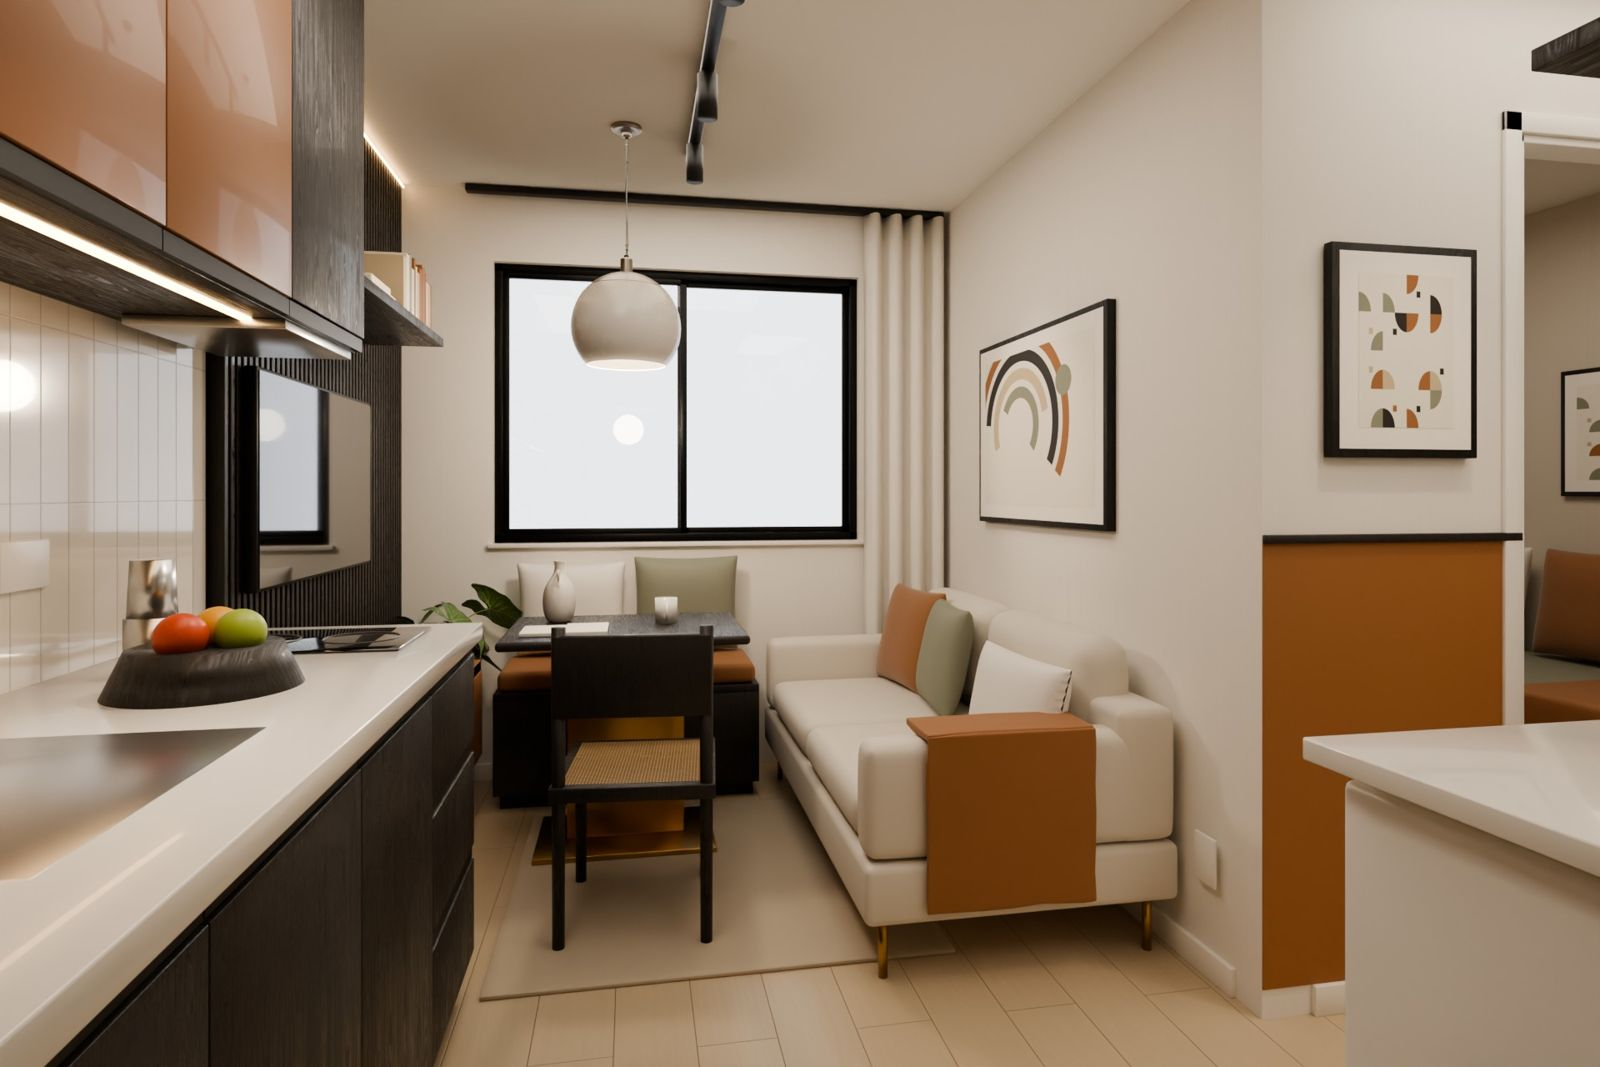
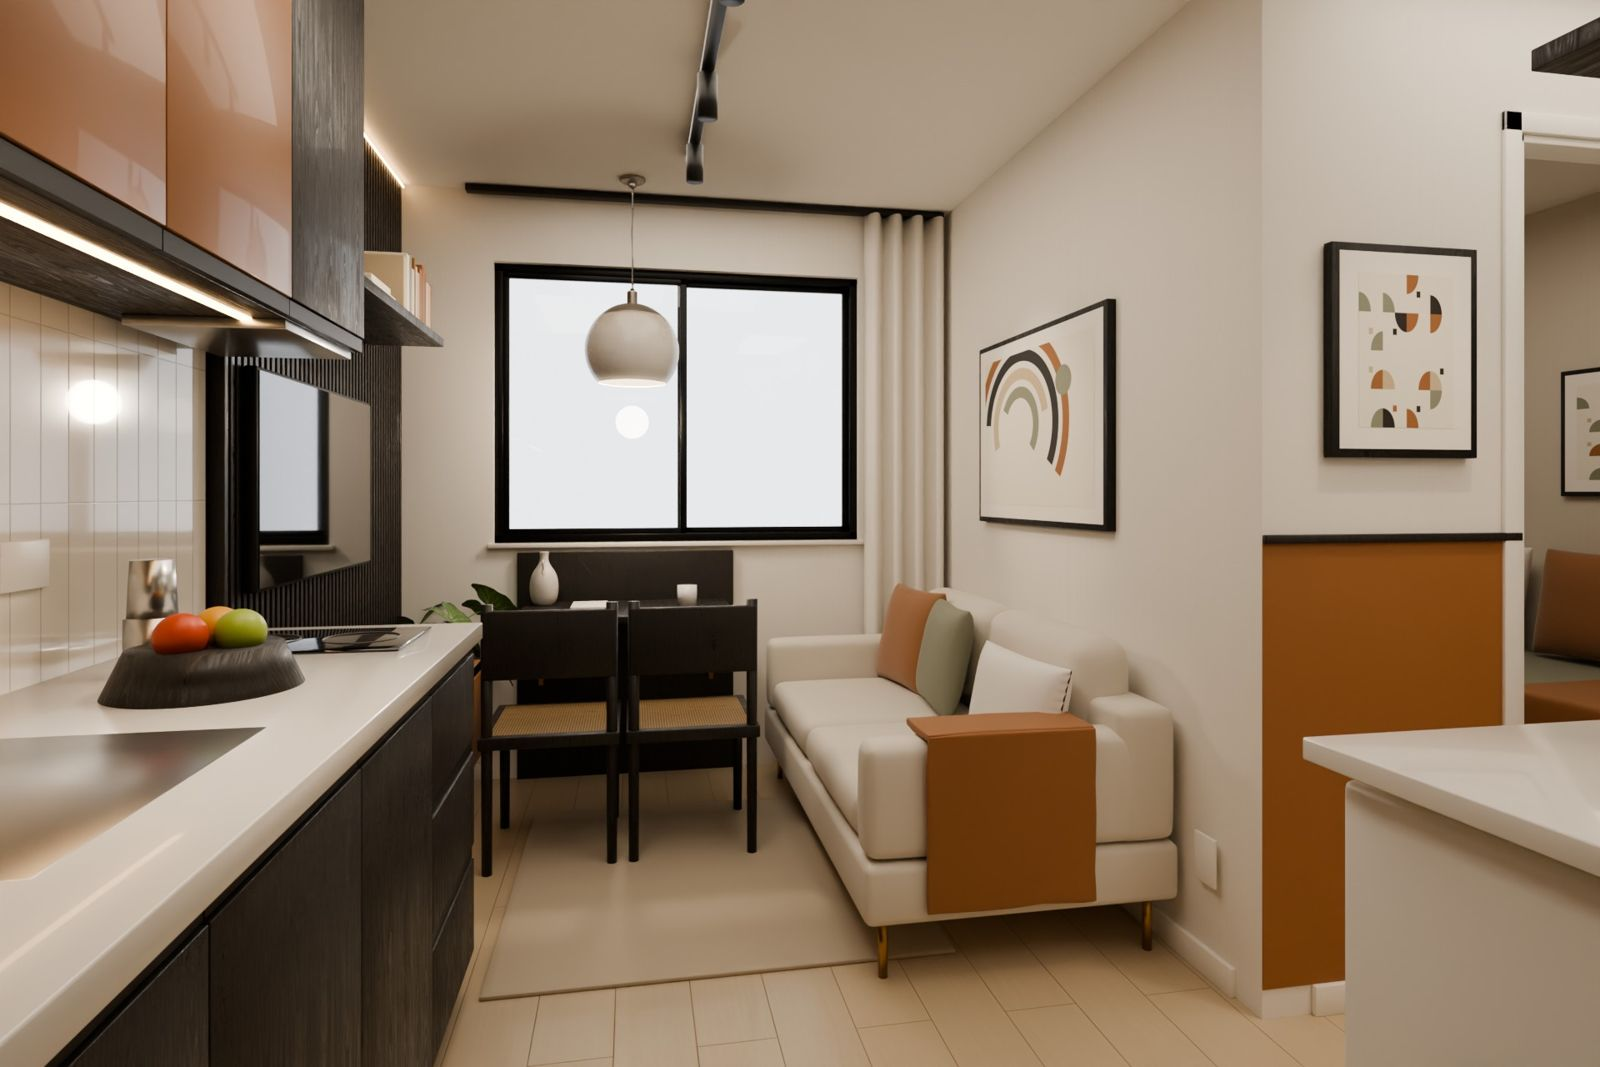
Site: B DONE

diff --git a/web/index.html b/web/index.html
@@ -312,6 +312,8 @@ footer { padding-block: 32px 48px; color: var(--muted); font-size: 13px; border-
     <div class="viewer" id="viewer"><div class="status" id="status">Carregando modelo…</div><span class="hint label">cores sólidas · escala 1:1 em metros</span><div class="navchips" id="navchips" hidden></div><div class="vdin" id="vdin"></div><span class="hint label walk" id="walkhint" hidden>clique nas setas do piso para ir a outro cômodo · arraste para olhar · W A S D para andar</span></div>
   </section>
 
+
+
   <section class="block" id="catalogo">
     <header><h2>Móveis e eletrodomésticos</h2><span class="cota">medidas em centímetros</span></header>
     <p class="lead">Cada peça do projeto com largura, profundidade e altura tiradas do próprio modelo. Largura é a medida ao longo da parede onde a peça encosta. Clique na imagem para girar a peça em 3D com as cotas. Peças mostradas na paleta Terra Paulista.</p>
@@ -446,6 +448,14 @@ function setPalette(p) {
 }
 /* ---------- viewer 3D ---------- */
 const box = document.getElementById("viewer"), status = document.getElementById("status");
+let hemi, sun, fill;
+// luz pré-calculada no Cycles chega como occlusionTexture (aoMap): ela passa a ser a única fonte, sobre uma luz ambiente branca
+const BAKED = { ambient: 1.25, exposure: 1.0 };
+function bakedLighting(on) {
+  hemi.color.set(on ? 0xffffff : 0xfffaf2); hemi.groundColor.set(on ? 0xffffff : 0x6f675e);
+  hemi.intensity = on ? BAKED.ambient : 0.62; sun.visible = fill.visible = !on;
+  renderer.toneMappingExposure = on ? BAKED.exposure : 1.0;
+}
 let renderer, scene, camera, controls, model, showCeiling = false, walking = false, fly = null;
 const keys = new Set(), clock = new THREE.Clock(), walkhint = document.getElementById("walkhint");
 // olho a 1,55 m; coordenadas do modelo: x, altura, y da planta
@@ -483,9 +493,9 @@ function initViewer() {
   box.prepend(renderer.domElement);
   scene = new THREE.Scene();
   camera = new THREE.PerspectiveCamera(38, 16 / 9, 0.05, 200);
-  scene.add(new THREE.HemisphereLight(0xfffaf2, 0x6f675e, 0.62));
-  const sun = new THREE.DirectionalLight(0xfff1e0, 0.85); sun.position.set(-6, 10, 4); scene.add(sun);
-  const fill = new THREE.DirectionalLight(0xdfe8ff, 0.28); fill.position.set(8, 6, 10); scene.add(fill);
+  hemi = new THREE.HemisphereLight(0xfffaf2, 0x6f675e, 0.62); scene.add(hemi);
+  sun = new THREE.DirectionalLight(0xfff1e0, 0.85); sun.position.set(-6, 10, 4); scene.add(sun);
+  fill = new THREE.DirectionalLight(0xdfe8ff, 0.28); fill.position.set(8, 6, 10); scene.add(fill);
   controls = new THREE.OrbitControls(camera, renderer.domElement);
   controls.enableDamping = true; controls.maxPolarAngle = Math.PI * 0.49;
   controls.minDistance = 1.5; controls.maxDistance = 25;
@@ -660,6 +670,7 @@ function fetchGLTF(url) {
     delete json.buffers[0].uri;
     new THREE.GLTFLoader().parse(toGLB(json, bin), "", g => {
       g.scene.traverse(o => [].concat(o.material || []).forEach(m => {
+        if (m.aoMap) { m.aoMapIntensity = 1; g.baked = true; }
         if (/^Vidro/.test(m.name)) Object.assign(m, { transparent: true, opacity: m.name === "Vidro" ? 0.12 : 0.45, metalness: 0, roughness: 0.05, depthWrite: false });
       }));
       ok(g);
@@ -676,6 +687,7 @@ function loadModel(p) {
     if (current !== p) return;
     if (model) scene.remove(model);
     model = g.scene; scene.add(model); applyCeiling(); status.hidden = true;
+    bakedLighting(!!g.baked);
   }).catch(fail);
   loadDining(p);
 }

diff --git a/site/viewer.js b/site/viewer.js
@@ -1,5 +1,13 @@
 /* ---------- viewer 3D ---------- */
 const box = document.getElementById("viewer"), status = document.getElementById("status");
+let hemi, sun, fill;
+// luz pré-calculada no Cycles chega como occlusionTexture (aoMap): ela passa a ser a única fonte, sobre uma luz ambiente branca
+const BAKED = { ambient: 1.25, exposure: 1.0 };
+function bakedLighting(on) {
+  hemi.color.set(on ? 0xffffff : 0xfffaf2); hemi.groundColor.set(on ? 0xffffff : 0x6f675e);
+  hemi.intensity = on ? BAKED.ambient : 0.62; sun.visible = fill.visible = !on;
+  renderer.toneMappingExposure = on ? BAKED.exposure : 1.0;
+}
 let renderer, scene, camera, controls, model, showCeiling = false, walking = false, fly = null;
 const keys = new Set(), clock = new THREE.Clock(), walkhint = document.getElementById("walkhint");
 // olho a 1,55 m; coordenadas do modelo: x, altura, y da planta
@@ -37,9 +45,9 @@ function initViewer() {
   box.prepend(renderer.domElement);
   scene = new THREE.Scene();
   camera = new THREE.PerspectiveCamera(38, 16 / 9, 0.05, 200);
-  scene.add(new THREE.HemisphereLight(0xfffaf2, 0x6f675e, 0.62));
-  const sun = new THREE.DirectionalLight(0xfff1e0, 0.85); sun.position.set(-6, 10, 4); scene.add(sun);
-  const fill = new THREE.DirectionalLight(0xdfe8ff, 0.28); fill.position.set(8, 6, 10); scene.add(fill);
+  hemi = new THREE.HemisphereLight(0xfffaf2, 0x6f675e, 0.62); scene.add(hemi);
+  sun = new THREE.DirectionalLight(0xfff1e0, 0.85); sun.position.set(-6, 10, 4); scene.add(sun);
+  fill = new THREE.DirectionalLight(0xdfe8ff, 0.28); fill.position.set(8, 6, 10); scene.add(fill);
   controls = new THREE.OrbitControls(camera, renderer.domElement);
   controls.enableDamping = true; controls.maxPolarAngle = Math.PI * 0.49;
   controls.minDistance = 1.5; controls.maxDistance = 25;
@@ -214,6 +222,7 @@ function fetchGLTF(url) {
     delete json.buffers[0].uri;
     new THREE.GLTFLoader().parse(toGLB(json, bin), "", g => {
       g.scene.traverse(o => [].concat(o.material || []).forEach(m => {
+        if (m.aoMap) { m.aoMapIntensity = 1; g.baked = true; }
         if (/^Vidro/.test(m.name)) Object.assign(m, { transparent: true, opacity: m.name === "Vidro" ? 0.12 : 0.45, metalness: 0, roughness: 0.05, depthWrite: false });
       }));
       ok(g);
@@ -230,6 +239,7 @@ function loadModel(p) {
     if (current !== p) return;
     if (model) scene.remove(model);
     model = g.scene; scene.add(model); applyCeiling(); status.hidden = true;
+    bakedLighting(!!g.baked);
   }).catch(fail);
   loadDining(p);
 }

diff --git a/site/index2.html b/site/index2.html
@@ -312,6 +312,15 @@ footer { padding-block: 32px 48px; color: var(--muted); font-size: 13px; border-
     <div class="viewer" id="viewer"><div class="status" id="status">Carregando modelo…</div><span class="hint label">cores sólidas · escala 1:1 em metros</span><div class="navchips" id="navchips" hidden></div><div class="vdin" id="vdin"></div><span class="hint label walk" id="walkhint" hidden>clique nas setas do piso para ir a outro cômodo · arraste para olhar · W A S D para andar</span></div>
   </section>
 
+<!--VIDEO-->
+  <section class="block" id="video">
+    <header><h2>Passeio em vídeo</h2><span class="cota">24 s · 1280 × 720 · paleta Terra, jantar B</span></header>
+    <p class="lead">Um plano contínuo na altura dos olhos: entra pela porta, passa pela sala e pela cozinha, segue pelo corredor e termina no Dormitório 1. Feito para servir de base em ferramentas de vídeo com IA (como o Runway) que deixam a imagem fotorrealista.</p>
+    <video controls playsinline preload="metadata" poster="img2/terra_sala__rebativel.jpg" src="video/ares_ipiranga_tour_terra.mp4" style="width:100%;height:auto;display:block;background:var(--sheet)"></video>
+    <p style="margin-top:10px"><a href="video/ares_ipiranga_tour_terra.mp4" download>Baixar o vídeo (MP4)</a></p>
+  </section>
+<!--/VIDEO-->
+
   <section class="block" id="catalogo">
     <header><h2>Móveis e eletrodomésticos</h2><span class="cota">medidas em centímetros</span></header>
     <p class="lead">Cada peça do projeto com largura, profundidade e altura tiradas do próprio modelo. Largura é a medida ao longo da parede onde a peça encosta. Clique na imagem para girar a peça em 3D com as cotas. Peças mostradas na paleta Terra Paulista.</p>

diff --git a/light_glb.py b/light_glb.py
@@ -27,6 +27,11 @@ OUT = opt("--out", os.path.join(ROOT, "modelo2", PAL, f"ares_ipiranga_final01_{P
 PART = opt("--part", "all")          # all | base (sem o jantar) | dining (só o jantar)
 VARIANT = opt("--variant")           # opção de jantar do .blend, para o catálogo
 CAT_OUT = opt("--catalog-out", os.path.join(ROOT, "catalog.json"))
+LIGHTMAP = "--lightmap" in p          # pré-calcula a luz (Cycles) num atlas que vai como occlusionTexture
+LM_SIZE = int(opt("--lm-size", "2048"))
+LM_SAMPLES = int(opt("--lm-samples", "256"))
+LM_DEVICE = opt("--lm-device", "GPU")
+LM_FROM = opt("--lm-from")             # reaproveita a luz já calculada (.npy) de outra paleta: mesma geometria, mesmos UVs
 BAKE_DIR = os.path.join(ROOT, "web_tex", PAL)
 os.makedirs(BAKE_DIR, exist_ok=True)
 
@@ -47,12 +52,20 @@ for n in ["Ceu_externo", "Exterior"]:
     if o:
         bpy.data.objects.remove(o)
 for o in list(bpy.data.objects):
-    if o.type in ("LIGHT", "CAMERA"):
+    # com lightmap as luzes ficam até o bake
+    if o.type == "CAMERA" or (o.type == "LIGHT" and not LIGHTMAP):
         bpy.data.objects.remove(o)
-# o jantar da sala sai em arquivo próprio para o visualizador trocar as opções
+
+
+def is_dining(o):
+    return "dining" in o or (o.parent is not None and "dining" in o.parent)
+
+
+# o jantar da sala sai em arquivo próprio para o visualizador trocar as opções; no bake do jantar
+# o resto do apartamento fica na cena até o fim, para iluminar e sombrear as peças
 for o in list(bpy.data.objects):
-    is_d = "dining" in o or (o.parent is not None and "dining" in o.parent)
-    if (PART == "base" and is_d) or (PART == "dining" and not is_d and o.type in ("MESH", "EMPTY")):
+    d = is_dining(o)
+    if (PART == "base" and d) or (PART == "dining" and not LIGHTMAP and not d and o.type in ("MESH", "EMPTY")):
         bpy.data.objects.remove(o)
 
 
@@ -292,6 +305,147 @@ for o in bpy.data.objects:
             o.material_slots[i].material = webmats[nme]
 
 
+# ------------------------------------------------------------------ lightmap
+def bake_lightmap():
+    import numpy as np
+    from PIL import Image, ImageFilter
+    targets = [o for o in bpy.data.objects if o.type == "MESH" and o.data.polygons
+               and (PART != "dining" or is_dining(o))]
+    for o in targets:
+        if o.data.users > 1:
+            o.data = o.data.copy()
+        me = o.data
+        # malhas fechadas com faces para dentro (almofadas, frutas) assariam preto
+        bm = bmesh.new()
+        bm.from_mesh(me)
+        if bm.edges and all(e.is_manifold for e in bm.edges):
+            bmesh.ops.recalc_face_normals(bm, faces=bm.faces)
+            bm.to_mesh(me)
+        bm.free()
+        # TEXCOORD_0 = textura (vazio quando o material é cor sólida), TEXCOORD_1 = lightmap
+        if not me.uv_layers:
+            me.uv_layers.new(name="web")
+        while len(me.uv_layers) > 1:
+            me.uv_layers.remove(me.uv_layers[-1])
+        lm = me.uv_layers.new(name="lm")
+        me.uv_layers.active = lm
+    for o in bpy.context.view_layer.objects:
+        o.select_set(o in targets)
+    bpy.context.view_layer.objects.active = targets[0]
+    bpy.ops.object.mode_set(mode="EDIT")
+    bpy.ops.mesh.select_all(action="SELECT")
+    bpy.ops.uv.smart_project(angle_limit=math.radians(66), island_margin=0.002, correct_aspect=True,
+                             scale_to_bounds=False)
+    bpy.ops.uv.pack_islands(margin=0.003, rotate=True)
+    bpy.ops.object.mode_set(mode="OBJECT")
+    # impressão digital do layout UV: tem de bater entre paletas para reaproveitar a luz
+    import hashlib
+    hsh = hashlib.md5()
+    for o in sorted(targets, key=lambda o: o.name):
+        uv = o.data.uv_layers["lm"].data
+        arr = [0.0] * (len(uv) * 2)
+        uv.foreach_get("uv", arr)
+        hsh.update(o.name.encode()); hsh.update(bytes(str([round(x, 4) for x in arr[:64]]), "ascii"))
+    print("UVHASH", hsh.hexdigest())
+
+    import numpy as np
+    stem = f"lightmap_{PART}_{os.path.splitext(os.path.basename(OUT))[0]}"
+    if LM_FROM:
+        return tone_lightmap(np.load(LM_FROM).astype(np.float32), stem)
+    img = bpy.data.images.new("lightmap", LM_SIZE, LM_SIZE, float_buffer=True)
+    added = []
+    for m in {s.material for o in targets for s in o.material_slots if s.material}:
+        n = m.node_tree.nodes.new("ShaderNodeTexImage")
+        n.image = img
+        m.node_tree.nodes.active = n
+        added.append((m, n))
+    sc.render.engine = "CYCLES"
+    if LM_DEVICE == "GPU":
+        prefs = bpy.context.preferences.addons["cycles"].preferences
+        prefs.compute_device_type = "METAL"
+        prefs.get_devices()
+        for d in prefs.devices:
+            d.use = True
+    sc.cycles.device = LM_DEVICE
+    sc.cycles.samples = LM_SAMPLES
+    sc.cycles.use_denoising = False
+    sc.render.bake.use_pass_direct = True
+    sc.render.bake.use_pass_indirect = True
+    sc.render.bake.use_pass_color = False
+    sc.render.bake.margin = 6
+    for o in bpy.context.view_layer.objects:
+        o.select_set(o in targets)
+    bpy.ops.object.bake(type="DIFFUSE", pass_filter={"DIRECT", "INDIRECT"}, margin=6, use_clear=True)
+    for m, n in added:
+        m.node_tree.nodes.remove(n)
+
+    a = np.array(img.pixels[:], dtype=np.float32).reshape(LM_SIZE, LM_SIZE, 4)[::-1, :, :3]
+    lum = a @ np.array([0.2126, 0.7152, 0.0722], dtype=np.float32)
+    np.save(os.path.join(BAKE_DIR, stem + ".npy"), lum.astype(np.float16))
+    return tone_lightmap(lum, stem)
+
+
+def tone_lightmap(lum, stem):
+    """Luz (irradiância) -> luminância normalizada em 8 bits; o visualizador multiplica pela luz ambiente."""
+    import numpy as np
+    from PIL import Image, ImageFilter
+    used = lum[lum > 1e-4]
+    ref = float(np.percentile(used, 98)) if used.size else 1.0
+    v = np.clip(lum / ref, 0, 1) ** (1 / 1.6)       # curva suave: mais níveis nas sombras
+    im = Image.fromarray((v * 255).astype(np.uint8), "L").filter(ImageFilter.GaussianBlur(1.0))
+    path = os.path.join(BAKE_DIR, stem + ".jpg")
+    im.convert("RGB").save(path, quality=88)
+    print("LIGHTMAP", path, "ref", round(ref, 3))
+    return path, ref
+
+
+def add_occlusion(glb, jpg):
+    """Embute o atlas como occlusionTexture (texCoord 1) em todos os materiais do GLB."""
+    import struct
+    b = open(glb, "rb").read()
+    off, js, bn = 12, None, b""
+    while off < len(b):
+        ln, typ = struct.unpack("<I4s", b[off:off + 8])
+        if typ == b"JSON":
+            js = json.loads(b[off + 8:off + 8 + ln])
+        elif typ == b"BIN\x00":
+            bn = b[off + 8:off + 8 + ln]
+        off += 8 + ln
+    data = open(jpg, "rb").read()
+    pad = (4 - len(bn) % 4) % 4
+    bn = bn + b"\x00" * pad
+    js.setdefault("bufferViews", []).append({"buffer": 0, "byteOffset": len(bn), "byteLength": len(data)})
+    bn = bn + data
+    bn += b"\x00" * ((4 - len(bn) % 4) % 4)
+    js["buffers"][0]["byteLength"] = len(bn)
+    js.setdefault("images", []).append({"bufferView": len(js["bufferViews"]) - 1, "mimeType": "image/jpeg", "name": "lightmap"})
+    js.setdefault("samplers", []).append({"magFilter": 9729, "minFilter": 9987, "wrapS": 33071, "wrapT": 33071})
+    js.setdefault("textures", []).append({"source": len(js["images"]) - 1, "sampler": len(js["samplers"]) - 1})
+    t = len(js["textures"]) - 1
+    has_uv1 = set()
+    for mesh in js.get("meshes", []):
+        for prim in mesh["primitives"]:
+            if "TEXCOORD_1" in prim["attributes"] and "material" in prim:
+                has_uv1.add(prim["material"])
+    for i, m in enumerate(js.get("materials", [])):
+        if i in has_uv1:
+            m["occlusionTexture"] = {"index": t, "texCoord": 1}
+    jb = json.dumps(js, separators=(",", ":")).encode()
+    jb += b" " * ((4 - len(jb) % 4) % 4)
+    out = struct.pack("<III", 0x46546C67, 2, 12 + 8 + len(jb) + 8 + len(bn))
+    out += struct.pack("<I4s", len(jb), b"JSON") + jb + struct.pack("<I4s", len(bn), b"BIN\x00") + bn
+    open(glb, "wb").write(out)
+    print("OCCLUSION", len(has_uv1), "materiais")
+
+
+lm_path = None
+if LIGHTMAP:
+    lm_path, lm_ref = bake_lightmap()
+    for o in list(bpy.data.objects):
+        if o.type == "LIGHT" or (PART == "dining" and o.type in ("MESH", "EMPTY") and not is_dining(o)):
+            bpy.data.objects.remove(o)
+
+
 def export(path, selection=False):
     bpy.ops.export_scene.gltf(filepath=path, export_format="GLB", export_image_format="JPEG",
                               export_jpeg_quality=82, export_apply=True, export_normals=True,
@@ -301,6 +455,8 @@ def export(path, selection=False):
 out = OUT
 os.makedirs(os.path.dirname(out), exist_ok=True)
 export(out)
+if lm_path:
+    add_occlusion(out, lm_path)
 print("LIGHT", PAL, os.path.getsize(out))
 
 if CATALOG:

diff --git a/merge_site.py b/merge_site.py
@@ -11,5 +11,8 @@ cat = catalog_merge.merge()
 catjs = open(os.path.join(S, "catalog.js")).read().replace("__CATALOG__", json.dumps(cat, ensure_ascii=False))
 page = (page.replace("__PALETTES__", json.dumps(pal, ensure_ascii=False)).replace("__VIEWER__", viewer)
         .replace("__CATALOGJS__", catjs))
+# a seção do vídeo só entra quando o MP4 existe
+if not os.path.exists(os.path.join(os.path.dirname(S), "video", "ares_ipiranga_tour_terra.mp4")):
+    page = re.sub(r"<!--VIDEO-->.*?<!--/VIDEO-->", "", page, flags=re.S)
 open(os.path.join(S, "index.html"), "w").write(page)
 print("index.html", len(page))
